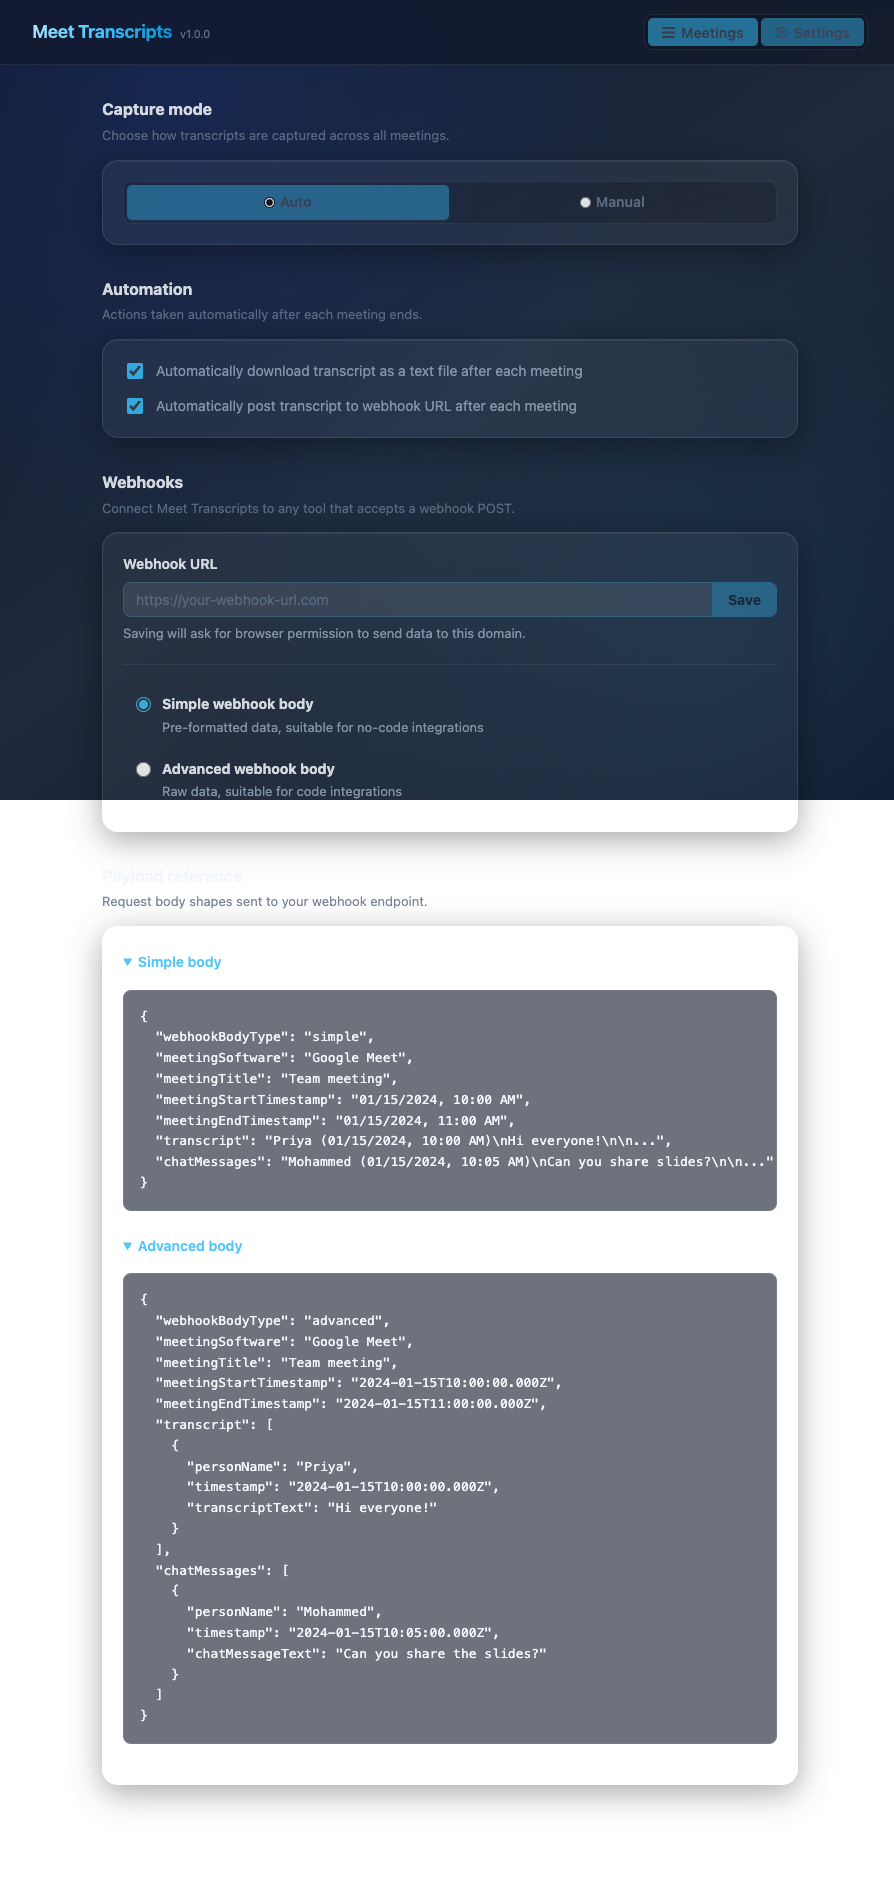
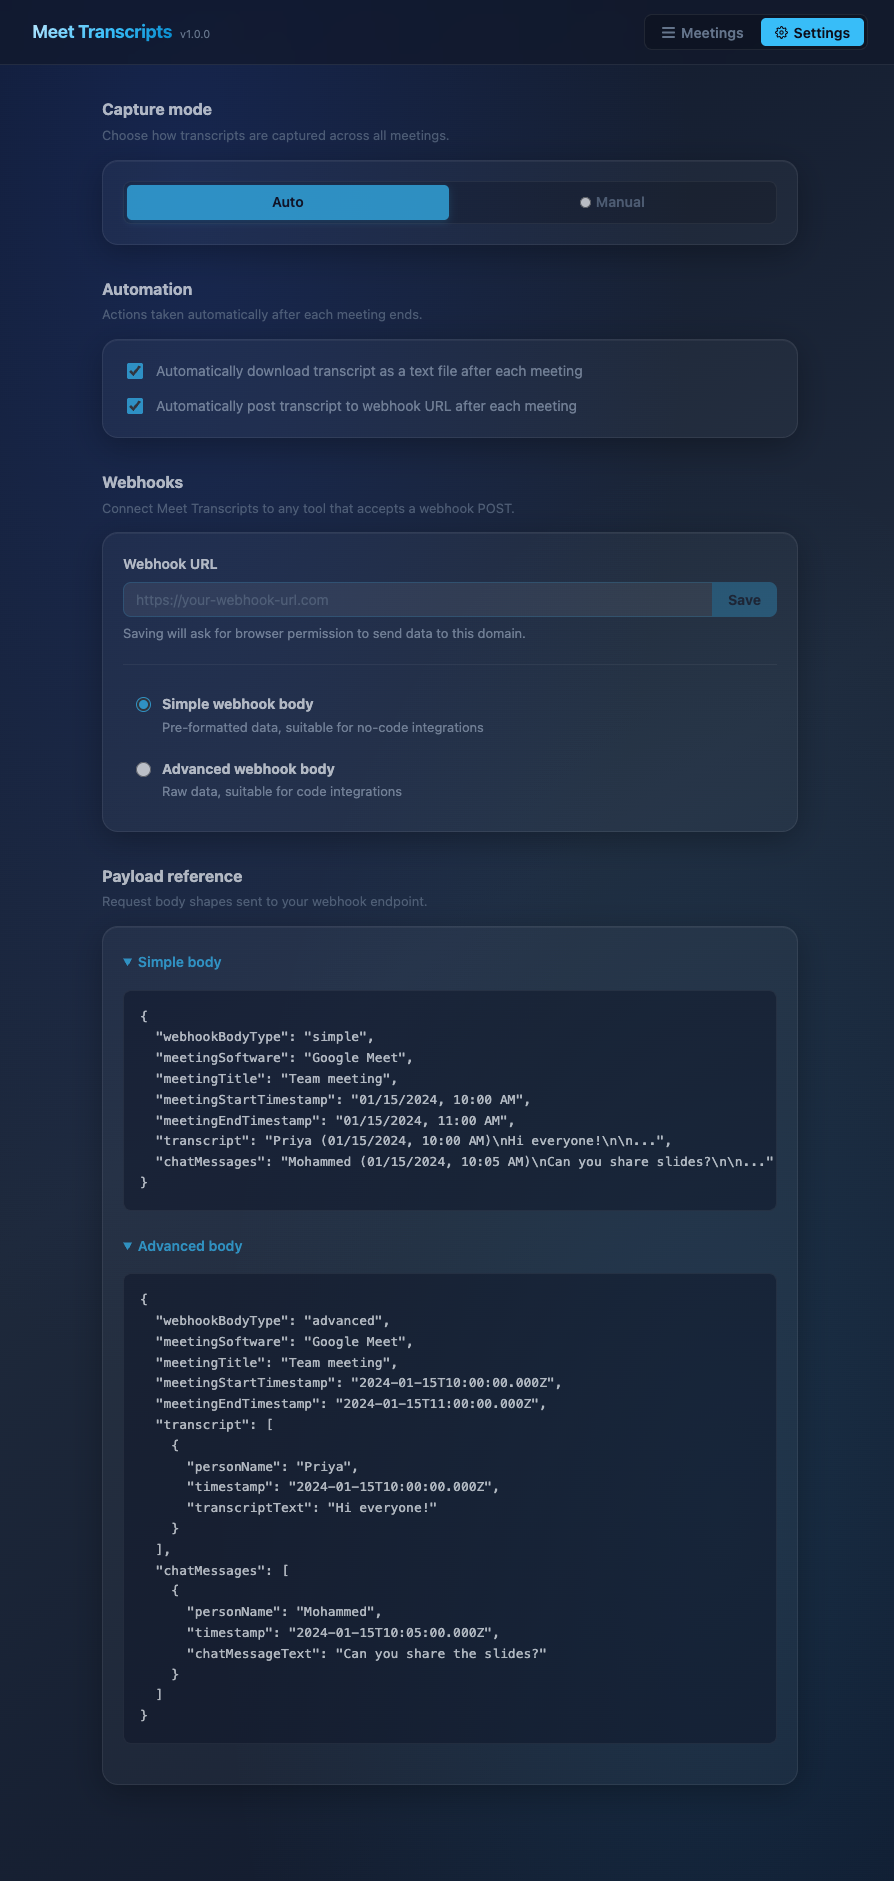
fix: cover full page background and clean up mode toggle radio in active state

diff --git a/extension/app.html b/extension/app.html
@@ -81,7 +81,7 @@
           <div class="mode-toggle">
             <div class="mode-option">
               <label for="auto-mode">
-                <input type="radio" name="mode" id="auto-mode" />
+                <input type="radio" name="mode" id="auto-mode" checked />
                 Auto
               </label>
             </div>
@@ -101,7 +101,7 @@
         <p class="section-desc">Actions taken automatically after each meeting ends.</p>
         <div class="card">
           <div class="checkbox-group">
-            <input type="checkbox" id="auto-download-file" />
+            <input type="checkbox" id="auto-download-file" checked />
             <label for="auto-download-file">Automatically download transcript as a text file after each meeting</label>
           </div>
           <div class="checkbox-group">
@@ -129,7 +129,7 @@
           <hr />
 
           <div class="radio-item">
-            <input type="radio" class="body-type-radio" name="webhook-body-type" id="simple-webhook-body" />
+            <input type="radio" class="body-type-radio" name="webhook-body-type" id="simple-webhook-body" checked />
             <label for="simple-webhook-body">
               <b>Simple webhook body</b><br />
               <span class="sub-text">Pre-formatted data, suitable for no-code integrations</span>

diff --git a/extension/app.css b/extension/app.css
@@ -7,7 +7,6 @@ body {
     radial-gradient(ellipse at 20% 10%, rgba(30, 58, 138, 0.35) 0%, transparent 50%),
     radial-gradient(ellipse at 80% 80%, rgba(56, 189, 248, 0.10) 0%, transparent 50%),
     linear-gradient(145deg, #0f172a 0%, #1e293b 50%, #0f172a 100%);
-  background-attachment: fixed;
 }
 
 /* ── App header / tab nav ── */
@@ -323,6 +322,7 @@ input[type="checkbox"] {
   margin-top: 0.2rem;
   cursor: pointer;
   flex-shrink: 0;
+  accent-color: var(--brand);
 }
 
 .checkbox-group label { cursor: pointer; font-size: 0.875rem; color: var(--text-2); }

diff --git a/tests/screenshots/screenshots.spec.js b/tests/screenshots/screenshots.spec.js
@@ -62,7 +62,7 @@ const MOCK_MEETINGS = [
 test('@screenshots capture popup screenshot', async ({ page, extensionId }) => {
   await page.setViewportSize({ width: 400, height: 600 });
   await page.goto(`chrome-extension://${extensionId}/popup.html`);
-  await page.waitForSelector('#auto-mode:checked');
+  await page.waitForSelector('.mode-toggle');
   await page.screenshot({
     path: path.join(OUT, 'popup.png'),
     clip: { x: 0, y: 0, width: 400, height: 420 },

diff --git a/extension/shared.css b/extension/shared.css
@@ -110,6 +110,12 @@ a:hover { text-decoration-color: var(--brand); }
   box-shadow: 0 2px 8px rgba(56, 189, 248, 0.25);
 }
 
+.mode-option:has(input:checked) input[type="radio"] {
+  position: absolute;
+  opacity: 0;
+  pointer-events: none;
+}
+
 /* ── Toast system ── */
 #toast-container {
   position: fixed;
